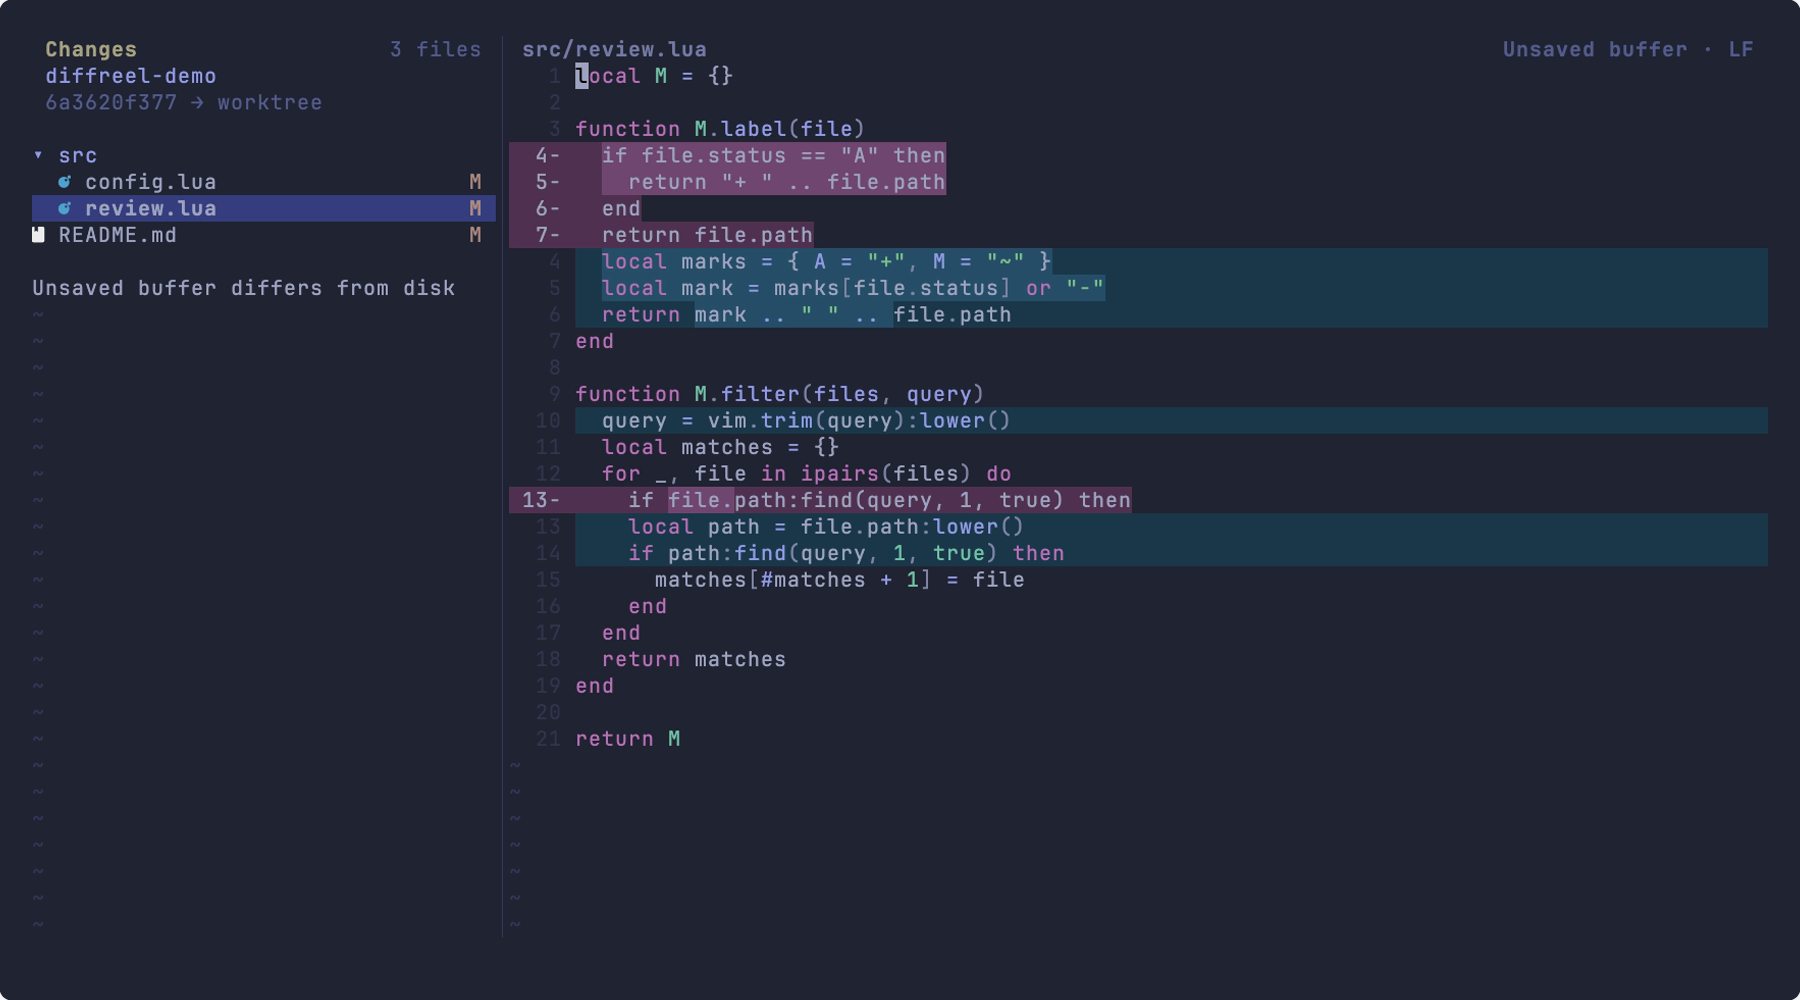
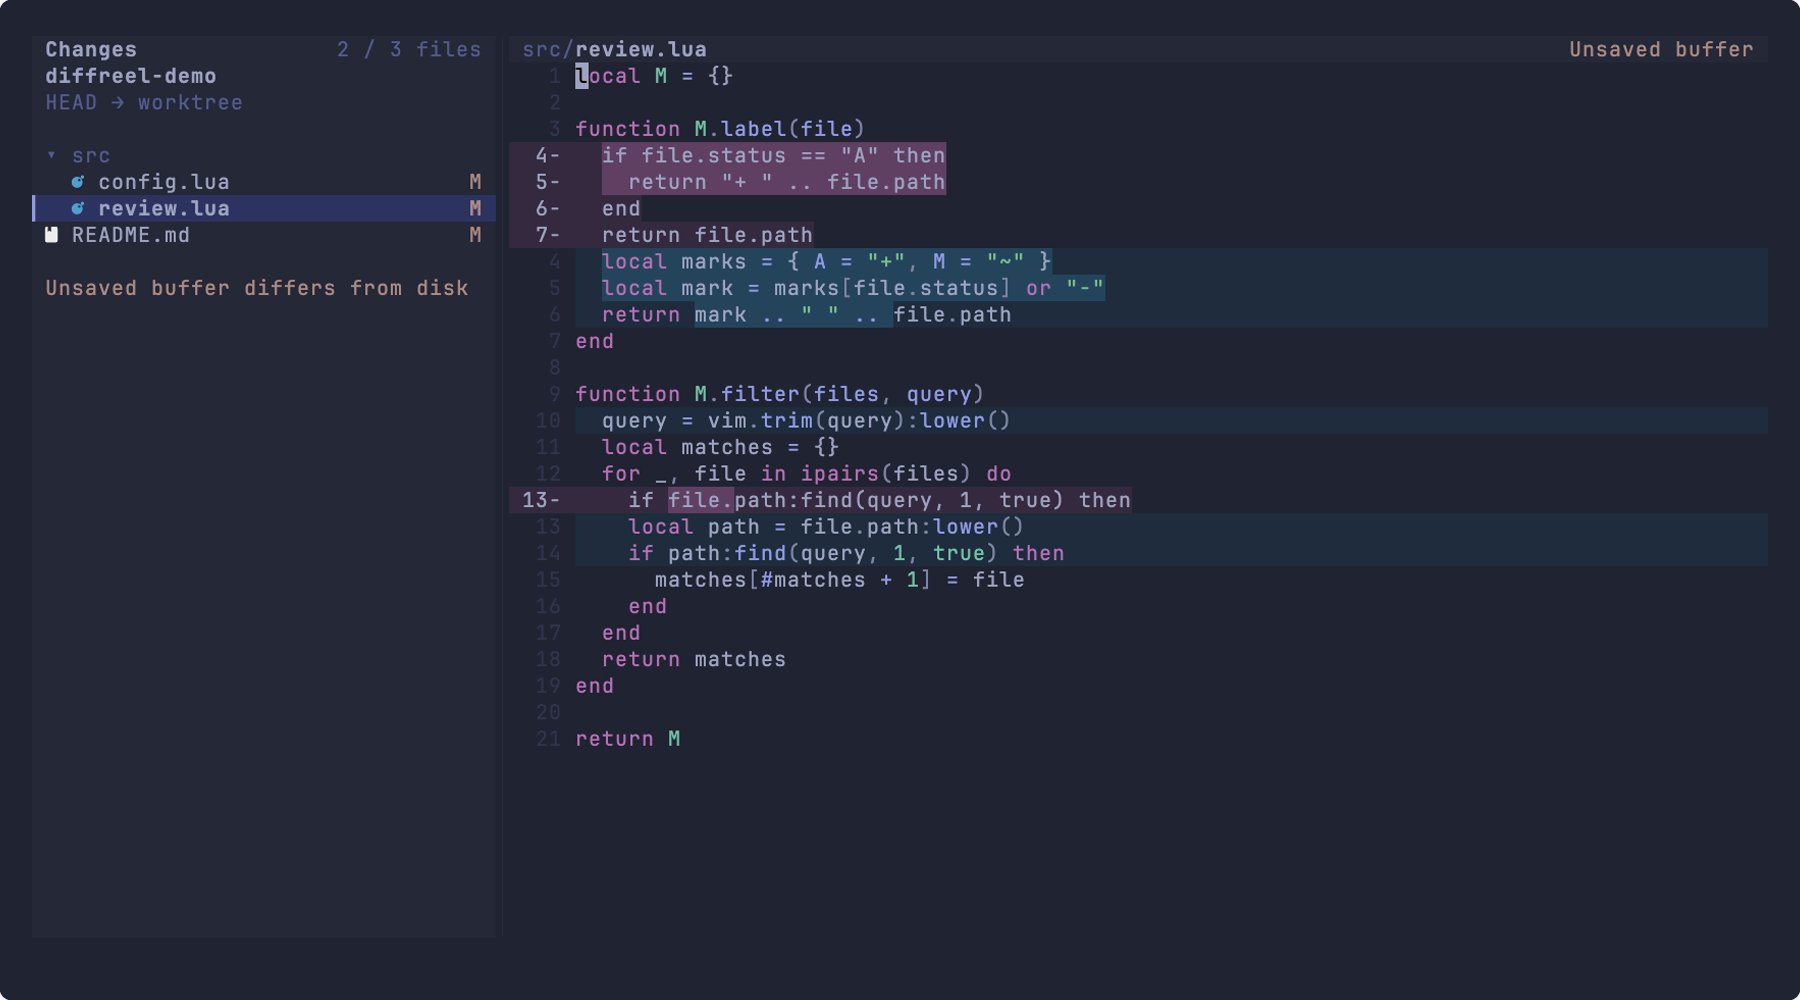
feat: refine review presentation (#3)
## Summary

Make reviews easier to scan with softer theme-derived diff backgrounds,
quiet filler rows, clearer file headers, and an explorer selection
marker and file position. Highlight unsaved buffers and preserve theme
overrides, ordinary-window settings, and `fillchars` inheritance during
cleanup.

Update the highlight documentation and regenerate all five README
screenshots and GIFs with `just demo-all`.

## Validation

- `nix develop .#ci --command just check`
- `deno task test --daemon <local debug daemon> --jobs 2`: all 66
Lua/Deno suite commands passed, including UI, LSP, stability, and
stateful checks
- Independent review of setting restoration, header escaping, and
selection-marker width
- Fresh Neovim session using the installed configuration: open, edit,
switch files, and close while retaining an unsaved draft
- `just demo-all`: all five scene checks passed; generated images
inspected

## References

n/a

diff --git a/docs/architecture.md b/docs/architecture.md
@@ -256,6 +256,8 @@ requests new Git content or changes the daemon protocol.
 
 Explorer rows cache byte ranges and group names, not resolved colors. A successful highlight application changes the generation and rerenders live explorers; hidden panels pick up the generation on reveal. File icon routing follows explicit definitions through the registered link chain, otherwise retaining provider colors. Direct icon changes require setup to invalidate existing provider extmarks. Popup buffers use dedicated groups and local window mappings. Native diff uses the existing presentation ownership and cleanup path; new chrome remaps preserve preexisting user aliases.
 
+Default diff backgrounds blend theme colors with `Normal`; panel and header surfaces derive from its foreground/background when both are present. Transparent themes retain the native chrome links. The selected-row marker overlays a reserved leading space, leaving file labels and cached byte ranges intact. Quiet filler characters use the presentation lease and preserve the raw `fillchars` value, including literal commas that `vim.opt` cannot round-trip.
+
 ## Explorer hierarchy and cursor
 
 [explorer.lua](../lua/diffreel/explorer.lua) builds the full comparison hierarchy from current entries, including retained drafts and hidden descendants. A node's branch capability is independent of entry presence: a file entry can have descendants from the opposite endpoint. Rendering keeps its file status/selection and adds branch disclosure. Paths are split by components rather than tested as raw prefixes.

diff --git a/docs/user-guide.md b/docs/user-guide.md
@@ -412,7 +412,11 @@ See `:help diffreel-highlight-groups` for every public group and its default.
 
 ## Understand the review
 
-The pane headers identify a revision, the index, or the working-tree buffer. Neovim supplies diff alignment, hunk navigation, and synchronized folds. Highlight colors follow the current colorscheme, with stronger character-level changes and neutral filler rows.
+The pane headers emphasize the file name, dim its parent directories, and identify a revision, the index, or the working-tree buffer. Unsaved buffers use the modification color. Ordinary LF text needs no format label; CRLF, BOM, missing final newlines, and content limitations remain explicit.
+
+The explorer header shows the selected file's position, such as `2 / 12 files`, in the current tree or list order. A slim marker and a background highlight identify the selected file independently of the explorer cursor. HEAD-following reviews show `HEAD` in the explorer comparison; the revision pane retains the resolved commit ID.
+
+Neovim supplies diff alignment, hunk navigation, and synchronized folds. Line backgrounds blend with the current theme, while character-level changes use stronger colors. The explorer and pane headers share a subtle background. Transparent themes keep their native window backgrounds. Review windows use blank end-of-buffer and diff filler characters; other fill characters remain intact, and cleanup restores settings still owned by diffreel.
 
 The explorer uses these comparison markers:
 
